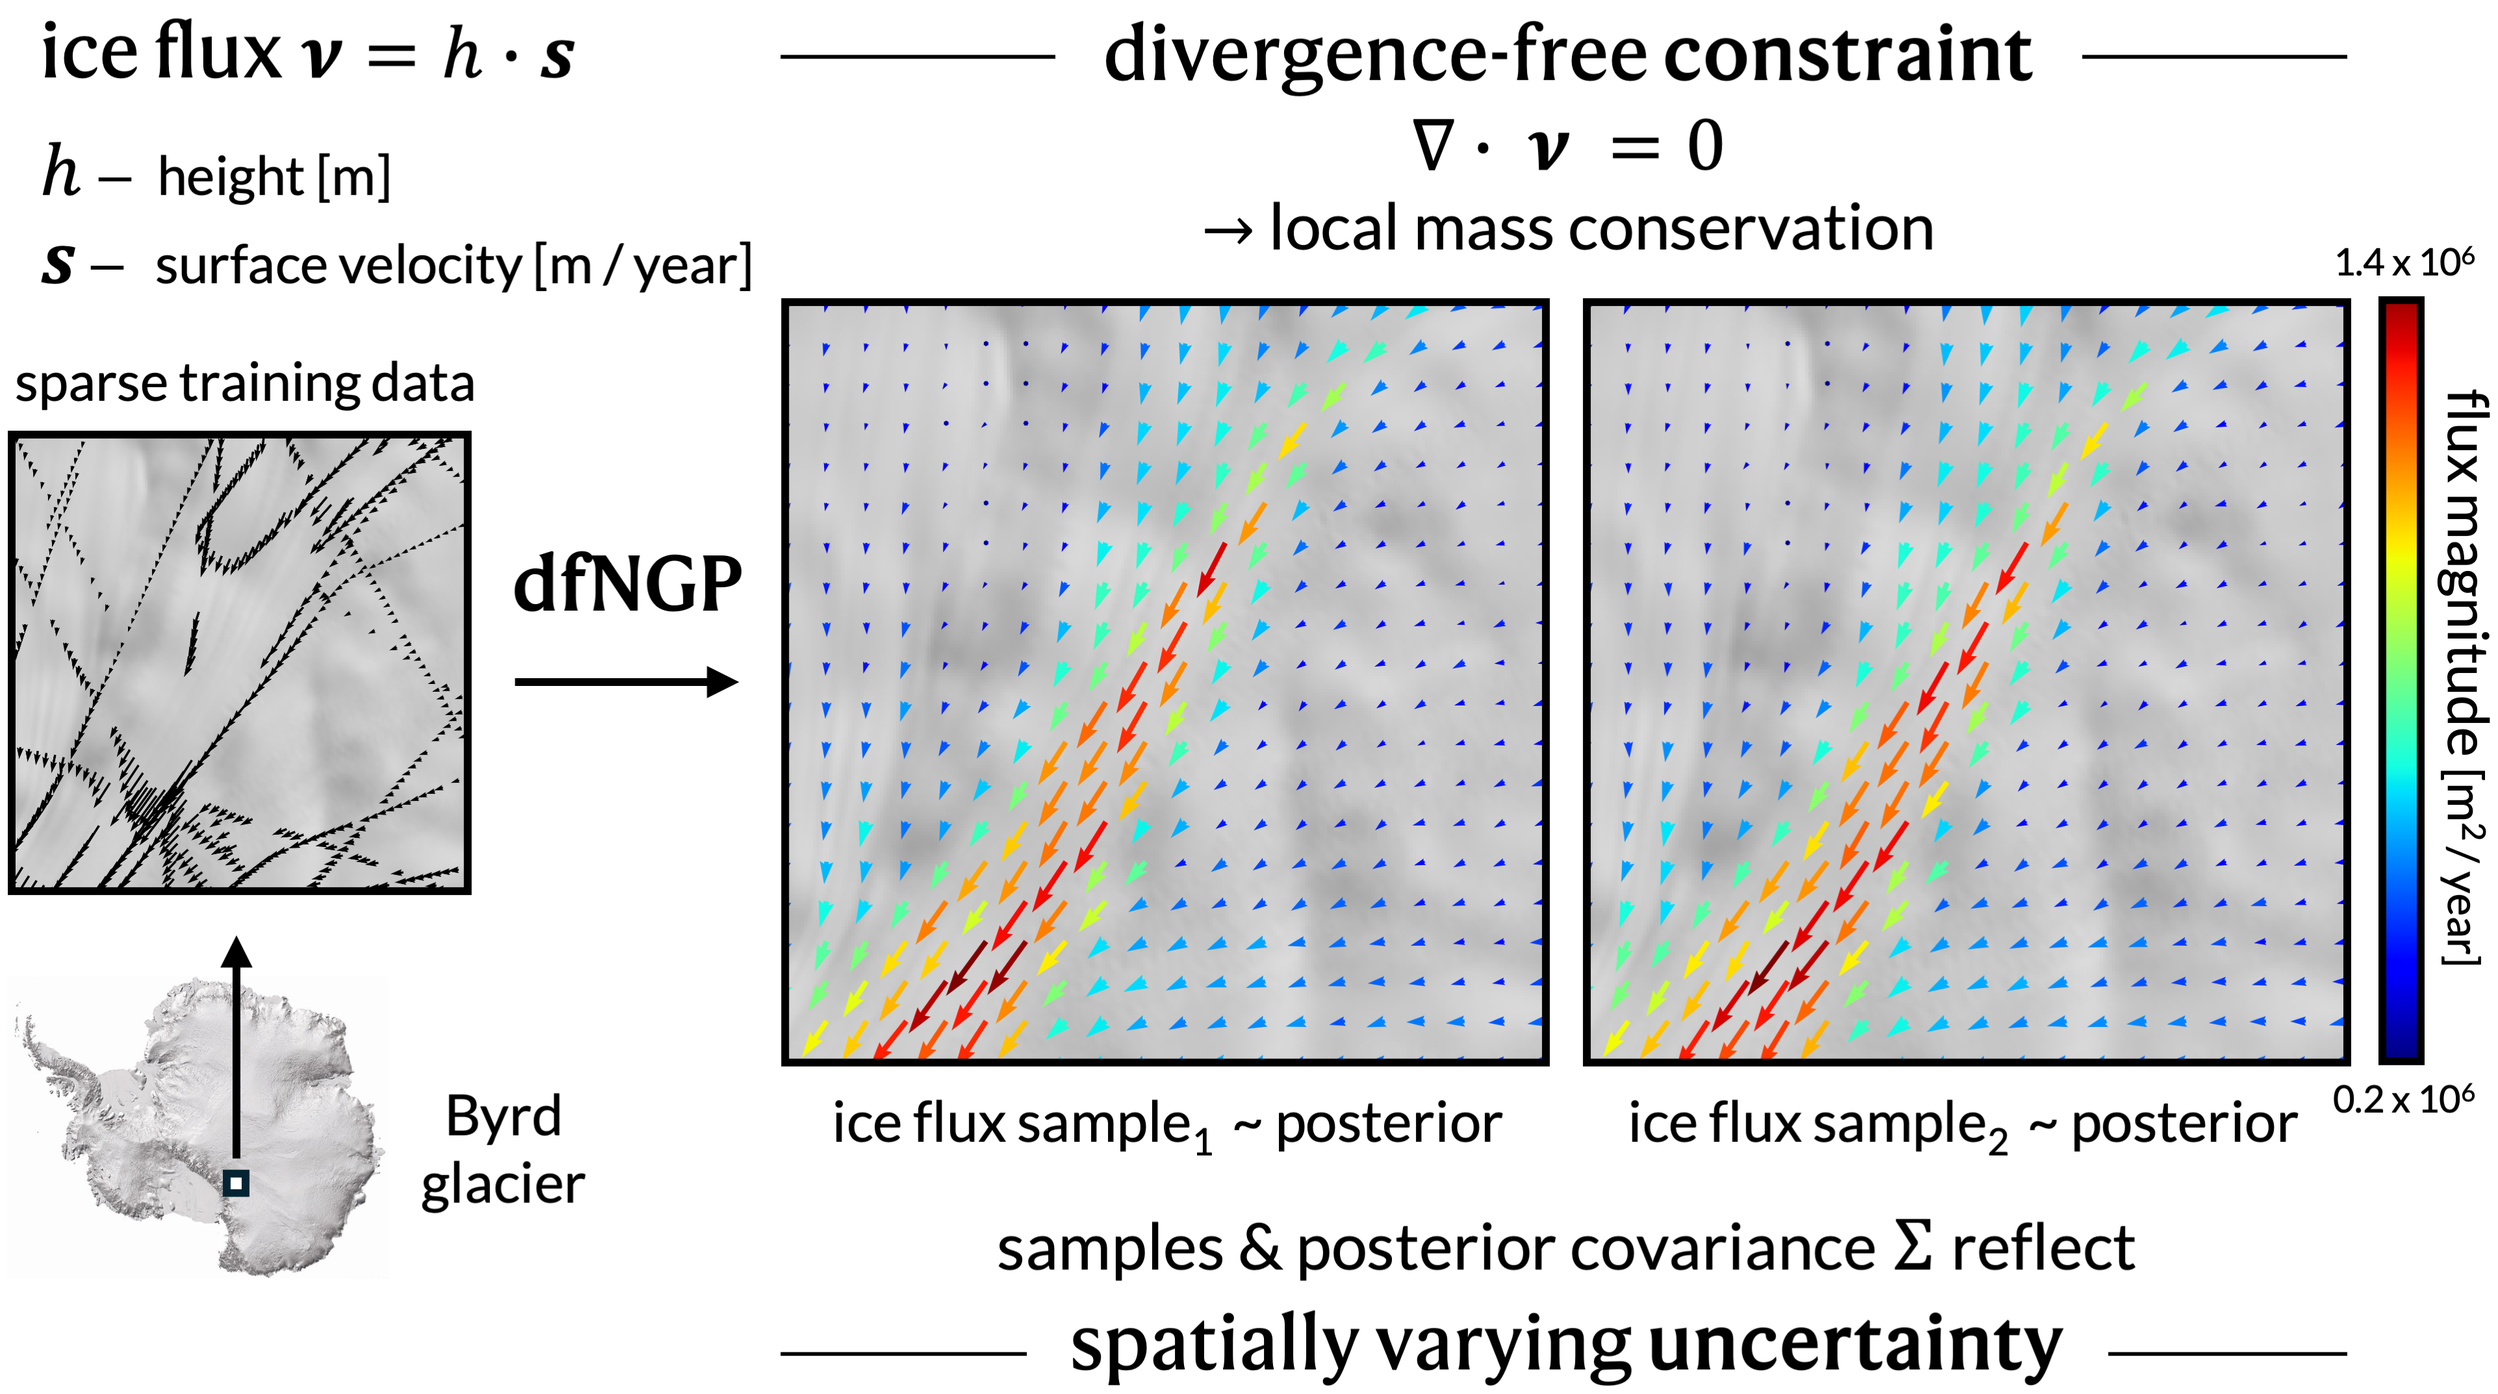
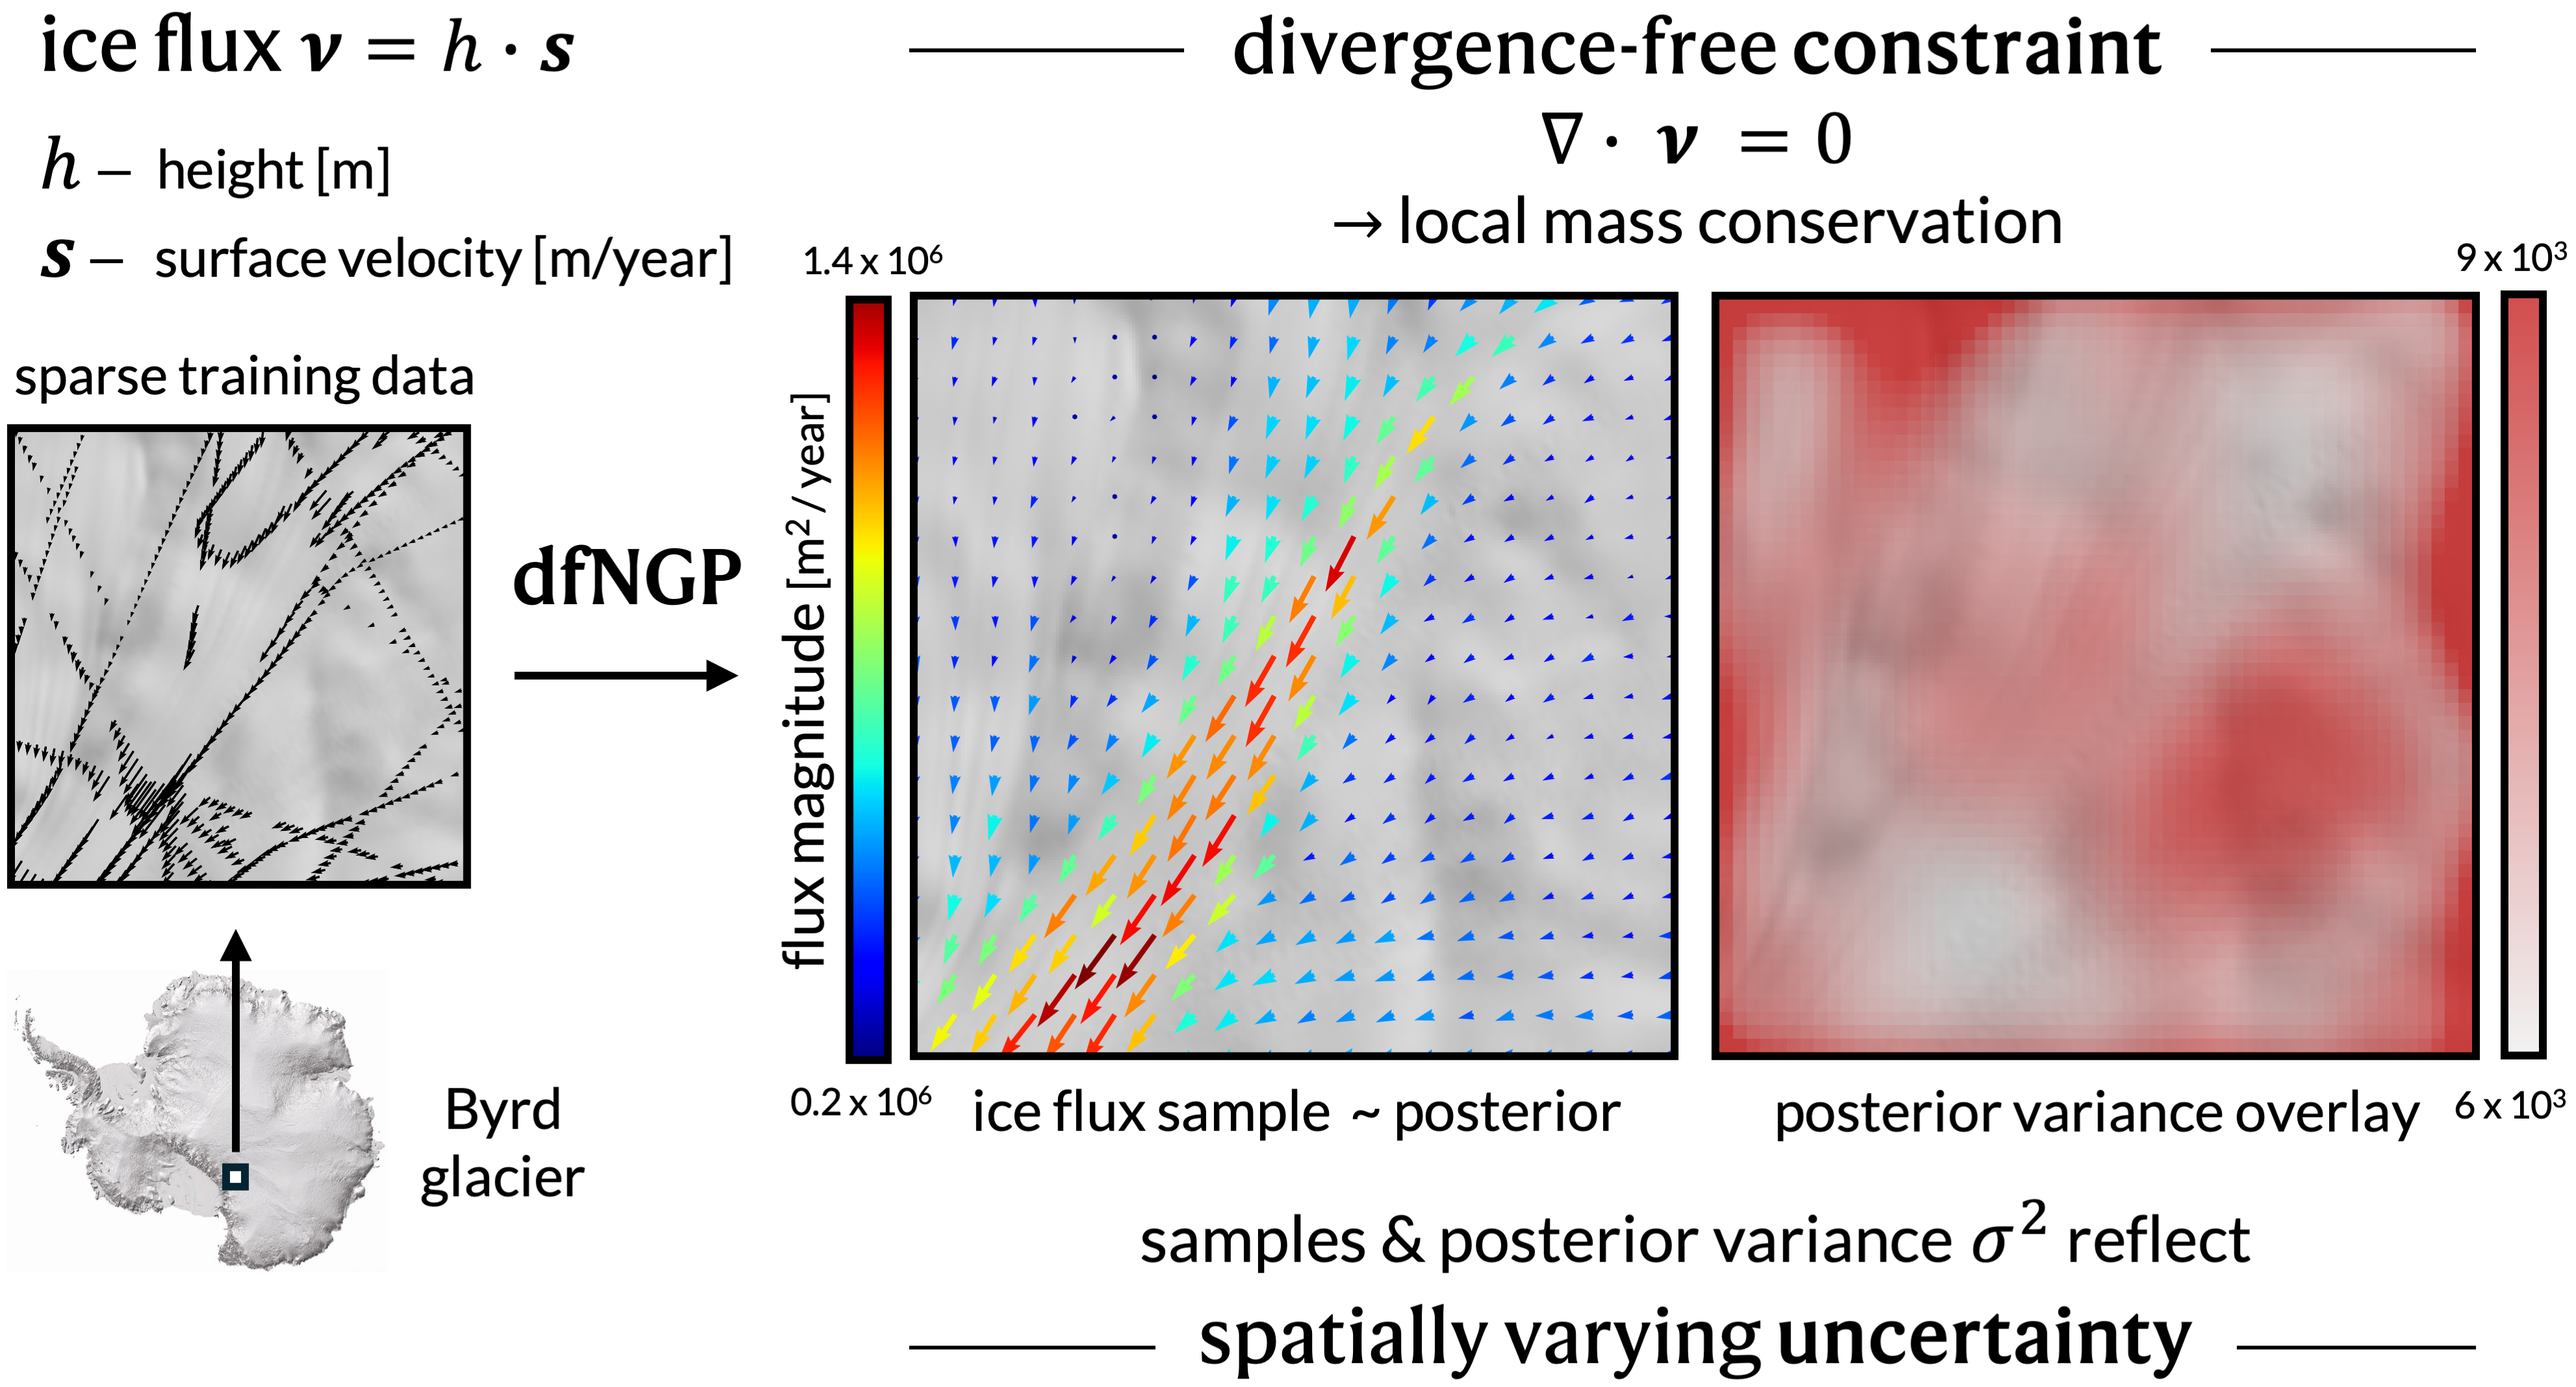
Update visualisations and readme

diff --git a/README.md b/README.md
@@ -1,5 +1,8 @@
-# dfNGP
-Divergence-free Neural Gaussian Processes 
+# Divergence-free Neural Gaussian Processes (dfNGPs)
+
+This repository introduces Divergence-free Neural Gaussian Processes (dfNGPs), a propabilistic methods to reconstruct guaranteed divergence-free vector fields from sparse data. The dfNGP integrates a hard-constrained divergence-free NN into a divergence-free Gaussian Process framework. With environmental applications in mind, the dfNGP can enforce local mass conservations in flows of e.g. ground water, ice sheets, ocean currents, atmonpheric streams, while modelling spatially varying uncertainty via a full joint posterior distribution. 
+
+Here, we present experiments on 5 simulated test cases, as well as experiments on real Antarctic ice flux data from Byrd glacier. We also include fullly reproducible data preprocessing pipelines. 
 
 ![Introduction to dfNGPs](README_assets/intro_vis.png)
 
@@ -122,6 +125,8 @@ Go through the IPython notebook `real_data_step3_generate_train_test_regions.ipy
     - ice flux in x-direction [original units: m^2 / year i.e. m^3 / m / year, now: scaled to reduce magnitude]
     - ice flux in y-direction [original units: m^2 / year i.e. m^3 / m / year, now: scaled to reduce magnitude]
 
+![Ice flux experiments test regions](README_assets/locations.png)
+
 ## List of files with brief explanantions
 
 To aid navigation, we provide a list of folders and files (each in alphabatical order), along with brief descriptions of their contents. Align with the automatic ordering of github, we start with folders, followed by files.
@@ -191,6 +196,8 @@ To aid navigation, we provide a list of folders and files (each in alphabatical 
 - [visualise.py](visualise.py) provides useful visualisation functions for vector fields.
 
 ## The divergence-free Neural Gaussian Process (dfNGP)
+
+This graphic illustrates the architecture of the dfNGP:
 
 ![Structure of the divergence-free Neural Gaussian Process](README_assets/model_vis.png)
 
